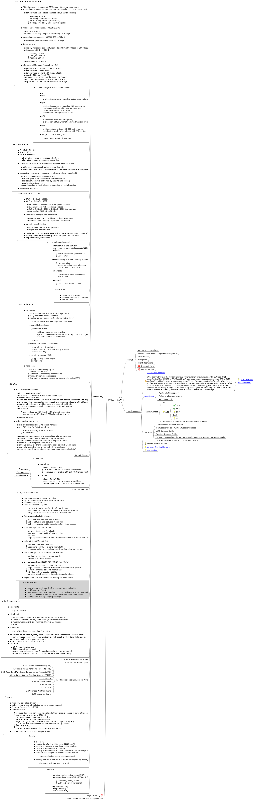
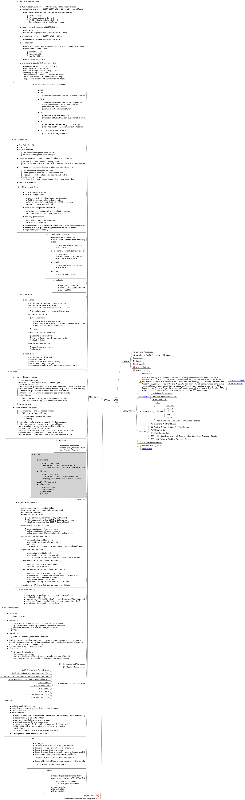
extended ATPL mind map

diff --git a/ATPL/Exam/ATPL.mm b/ATPL/Exam/ATPL.mm
@@ -10625,8 +10625,7 @@
       </li>
     </ul>
   </body>
-</html>
-</richcontent>
+</html></richcontent>
 </node>
 </node>
 <node CREATED="1573330572405" ID="ID_1665720219" MODIFIED="1573432297772">
@@ -11034,8 +11033,34 @@
 </html></richcontent>
 </node>
 </node>
-<node CREATED="1573330604065" ID="ID_1607843192" MODIFIED="1573330609663" TEXT="6.09 Air Masses"/>
-<node CREATED="1573330615743" ID="ID_1077695511" MODIFIED="1573410092376">
+<node CREATED="1573330604065" ID="ID_1607843192" MODIFIED="1573602942279">
+<richcontent TYPE="NODE"><html>
+  <head>
+    
+  </head>
+  <body>
+    <p>
+      6.09 Air Masses
+    </p>
+    <p>
+      
+    </p>
+    <ul>
+      <li>
+        maritime, continental
+      </li>
+      <li>
+        arctic, polar, tropical, return
+      </li>
+      <li>
+        A, Pm, Tm, rPm, Pc, Tc
+      </li>
+    </ul>
+  </body>
+</html>
+</richcontent>
+</node>
+<node CREATED="1573330615743" FOLDED="true" ID="ID_1077695511" MODIFIED="1573605303413">
 <richcontent TYPE="NODE"><html>
   <head>
     
@@ -11078,12 +11103,211 @@
           </li>
         </ul>
       </li>
+      <li>
+        ANA, KATA cold front
+      </li>
+      <li>
+        occluded front
+
+        <ul>
+          <li>
+            warm occlusion
+          </li>
+          <li>
+            cold occlusion
+          </li>
+          <li>
+            triple point
+          </li>
+          <li>
+            TROWAL
+          </li>
+        </ul>
+      </li>
     </ul>
   </body>
-</html></richcontent>
-<node CREATED="1573408886069" ID="ID_1151229985" MODIFIED="1573408890423" TEXT="Frontolysis"/>
-<node CREATED="1573408894651" ID="ID_1229506004" MODIFIED="1573408901058" TEXT="Frontogenisis"/>
-<node CREATED="1573408906409" ID="ID_1552787567" MODIFIED="1573408916592" TEXT="Frontal Passage"/>
+</html>
+</richcontent>
+<node CREATED="1573408894651" ID="ID_1229506004" MODIFIED="1573602402393">
+<richcontent TYPE="NODE"><html>
+  <head>
+    
+  </head>
+  <body>
+    <p>
+      Frontogenisis
+    </p>
+    <p>
+      
+    </p>
+    <ul>
+      <li>
+        generation of fronts due to air mass differences
+      </li>
+    </ul>
+  </body>
+</html>
+</richcontent>
+</node>
+<node CREATED="1573408906409" ID="ID_1552787567" MODIFIED="1573605268866">
+<richcontent TYPE="NODE"><html>
+  <head>
+    
+  </head>
+  <body>
+    <p>
+      Frontal Passage
+    </p>
+    <p>
+      
+    </p>
+    <ul>
+      <li>
+        wind, pressure, temperature, dew point, visibility
+      </li>
+      <li>
+        warm front
+
+        <ul>
+          <li>
+            ahead the front:
+
+            <ul>
+              <li>
+                wind increases and backs slightly
+              </li>
+              <li>
+                pressure falls
+              </li>
+              <li>
+                temperature is steady low
+              </li>
+              <li>
+                dew point is steady low
+              </li>
+              <li>
+                visibility becomes poor
+              </li>
+            </ul>
+          </li>
+          <li>
+            at the front:
+
+            <ul>
+              <li>
+                wind veers sharply
+              </li>
+              <li>
+                pressure falls
+              </li>
+              <li>
+                temperature rises
+              </li>
+              <li>
+                dew point rises
+              </li>
+              <li>
+                visibility is very poor
+              </li>
+            </ul>
+          </li>
+          <li>
+            behind the front:
+
+            <ul>
+              <li>
+                wind is steady
+              </li>
+              <li>
+                pressure falls slightly
+              </li>
+              <li>
+                temperature is steady
+              </li>
+              <li>
+                dew point is steady
+              </li>
+              <li>
+                visibility is poor
+              </li>
+            </ul>
+          </li>
+        </ul>
+      </li>
+      <li>
+        cold front
+
+        <ul>
+          <li>
+            at the front:
+
+            <ul>
+              <li>
+                wind veers sharply
+              </li>
+              <li>
+                pressure rises
+              </li>
+              <li>
+                temperature falls suddenly
+              </li>
+              <li>
+                dew point falls suddenly
+              </li>
+              <li>
+                visibility is poor in precipitation but improves
+              </li>
+            </ul>
+          </li>
+          <li>
+            behind the front:
+
+            <ul>
+              <li>
+                wind is steady or veers slightly
+              </li>
+              <li>
+                pressure rises slightly
+              </li>
+              <li>
+                temperature is steady low
+              </li>
+              <li>
+                dew point is steady low
+              </li>
+              <li>
+                visibility is very good except in showers
+              </li>
+            </ul>
+          </li>
+        </ul>
+      </li>
+    </ul>
+  </body>
+</html>
+</richcontent>
+</node>
+<node CREATED="1573408886069" ID="ID_1151229985" MODIFIED="1573602450479">
+<richcontent TYPE="NODE"><html>
+  <head>
+    
+  </head>
+  <body>
+    <p>
+      Frontolysis
+    </p>
+    <p>
+      
+    </p>
+    <ul>
+      <li>
+        dissipation of fronts due to air mass similarities
+      </li>
+    </ul>
+  </body>
+</html>
+</richcontent>
+</node>
 </node>
 <node CREATED="1573330721252" ID="ID_238729032" MODIFIED="1573330729412" TEXT="6.11 Complex Low"/>
 <node CREATED="1573330748611" ID="ID_68412790" MODIFIED="1573508666882">
@@ -11241,8 +11465,7 @@
       </li>
     </ul>
   </body>
-</html>
-</richcontent>
+</html></richcontent>
 <node CREATED="1573592888756" ID="ID_730717142" MODIFIED="1573594148794">
 <richcontent TYPE="NODE"><html>
   <head>
@@ -11285,8 +11508,7 @@
       </li>
     </ul>
   </body>
-</html>
-</richcontent>
+</html></richcontent>
 </node>
 </node>
 <node CREATED="1573331171164" ID="ID_1165763841" MODIFIED="1573588187726">
@@ -11364,8 +11586,7 @@
       </li>
     </ul>
   </body>
-</html>
-</richcontent>
+</html></richcontent>
 </node>
 <node CREATED="1573333282683" ID="ID_316363689" MODIFIED="1573333293696" TEXT="6.15 Hurricanes and Tornadoes"/>
 <node CREATED="1573333381118" ID="ID_1639799285" MODIFIED="1573333389670" TEXT="6.16 Surface Based Layers"/>
@@ -11692,8 +11913,7 @@
       </li>
     </ul>
   </body>
-</html>
-</richcontent>
+</html></richcontent>
 <node CREATED="1573590016775" ID="ID_868509694" MODIFIED="1573590291433">
 <richcontent TYPE="NODE"><html>
   <head>
@@ -11715,8 +11935,7 @@
       </li>
     </ul>
   </body>
-</html>
-</richcontent>
+</html></richcontent>
 </node>
 <node CREATED="1573590211760" ID="ID_927334044" MODIFIED="1573590402586">
 <richcontent TYPE="NODE"><html>
@@ -11736,8 +11955,7 @@
       </li>
     </ul>
   </body>
-</html>
-</richcontent>
+</html></richcontent>
 </node>
 <node CREATED="1573590247098" ID="ID_716094335" MODIFIED="1573591276331">
 <richcontent TYPE="NODE"><html>
@@ -11802,8 +12020,7 @@
       </li>
     </ul>
   </body>
-</html>
-</richcontent>
+</html></richcontent>
 </node>
 </node>
 </node>
